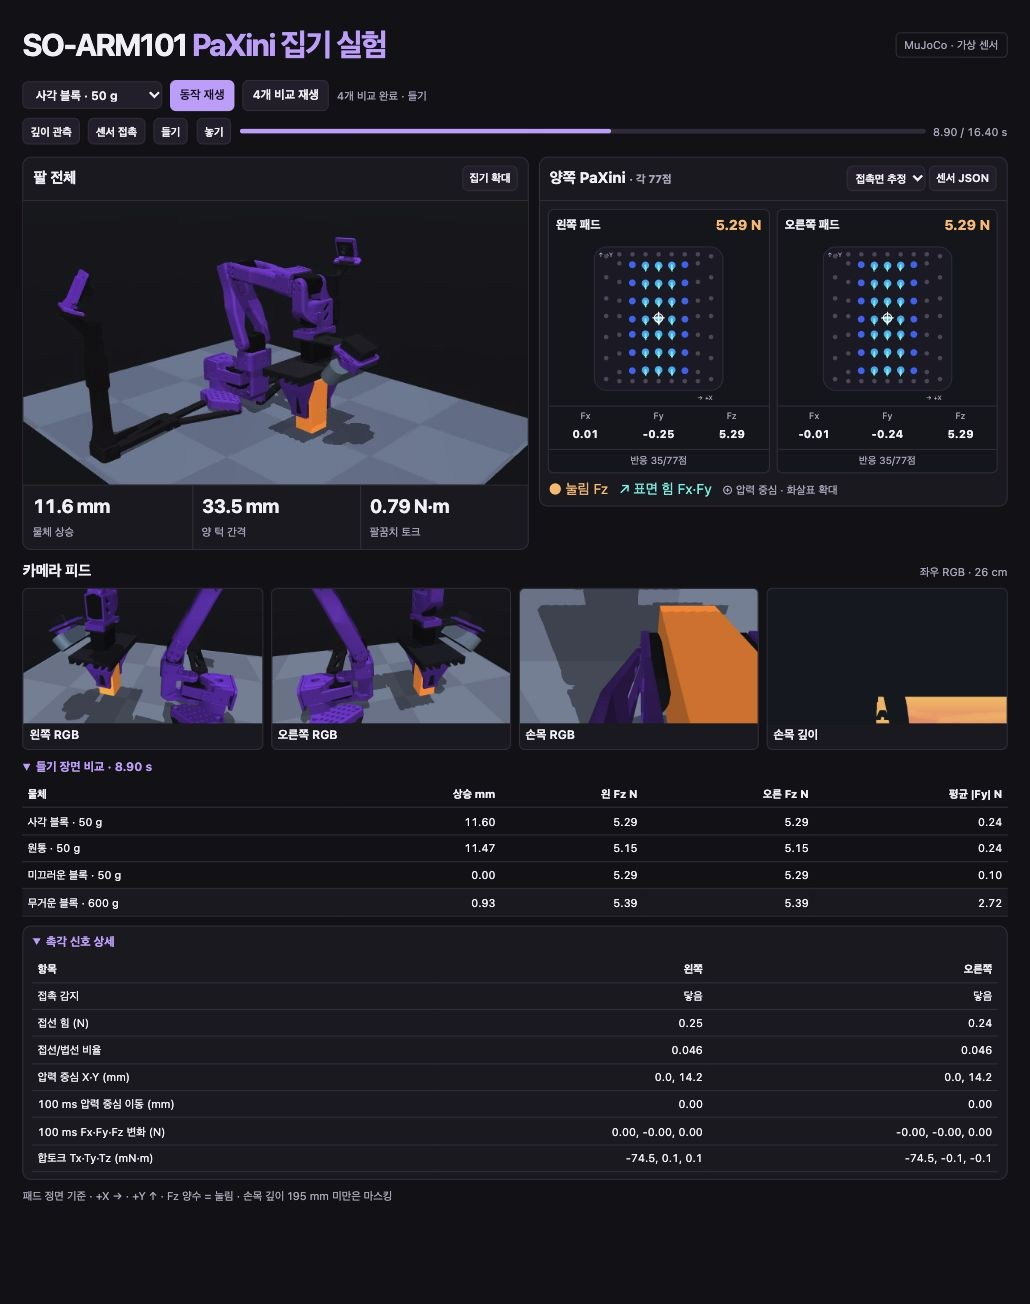
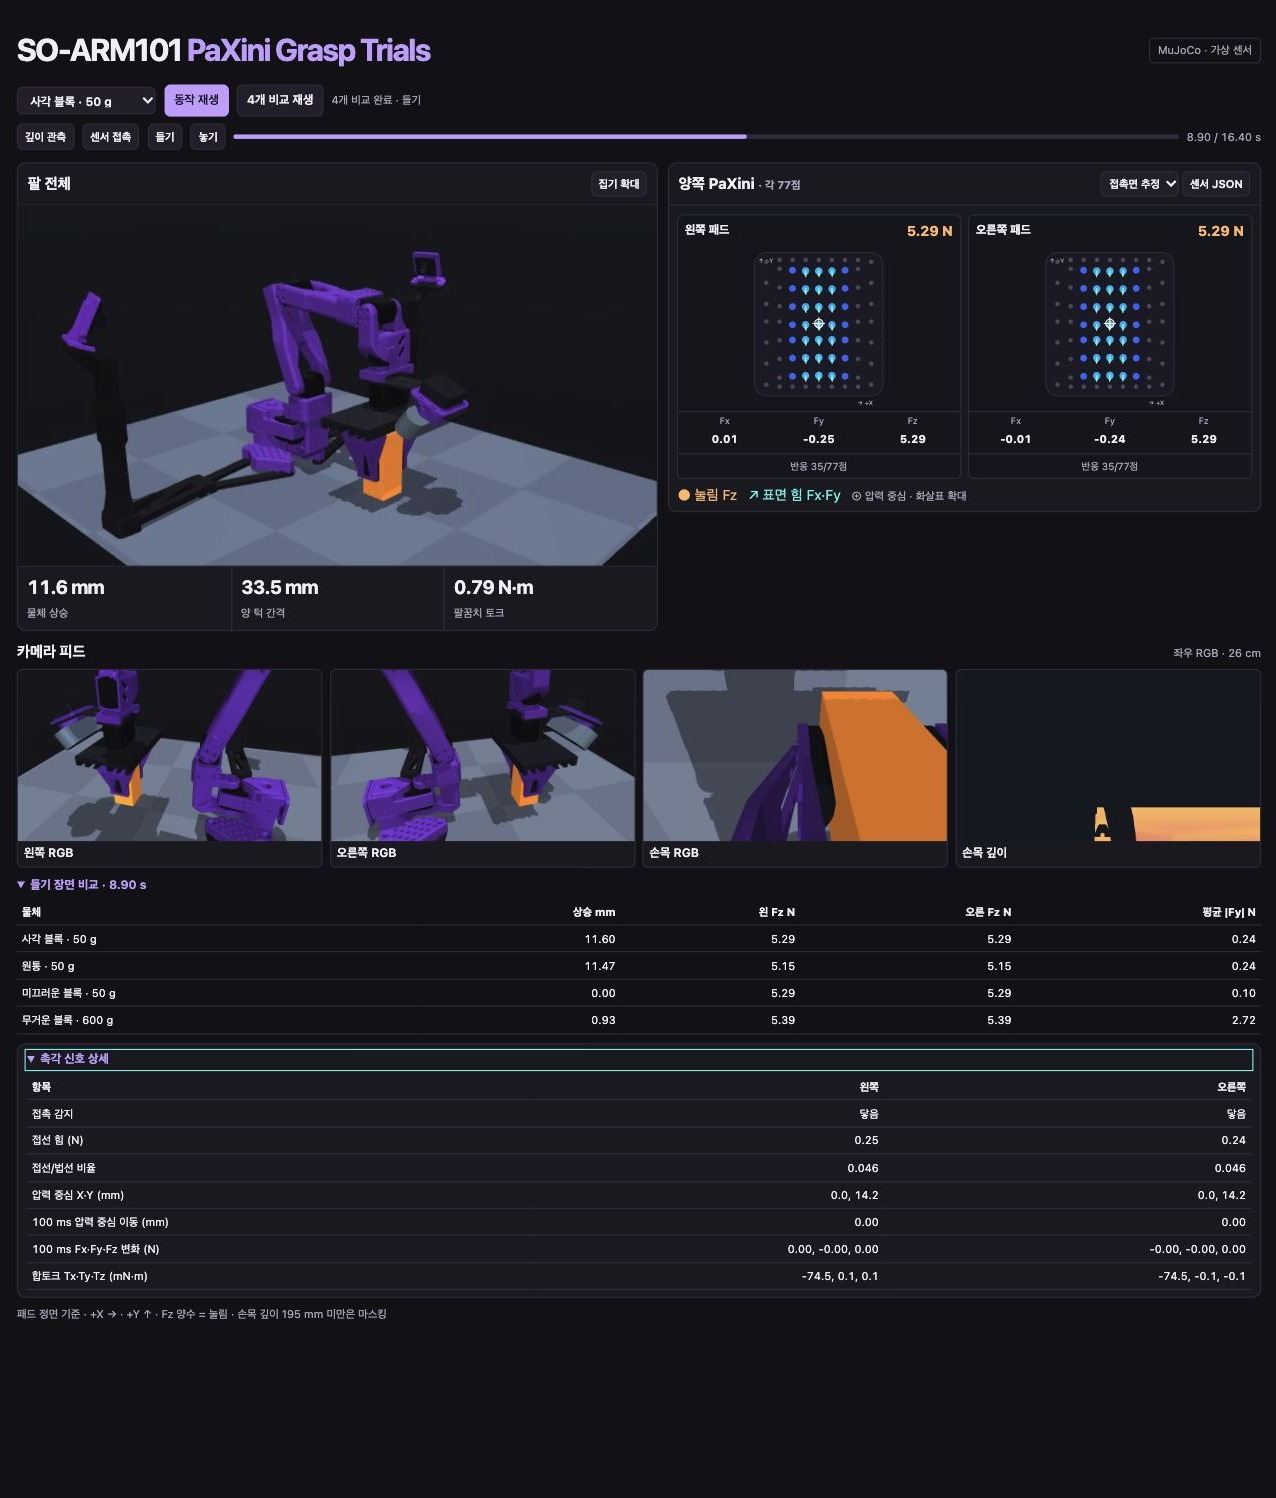
Lead with the live dashboard and enlarge the trial previews

diff --git a/simulation/index.html b/simulation/index.html
@@ -3,7 +3,7 @@
 <head>
 <meta charset="utf-8">
 <meta name="viewport" content="width=device-width,initial-scale=1">
-<title>SO-ARM101 · PaXini 집기 실험</title>
+<title>SO-ARM101 · PaXini Grasp Trials</title>
 <style>
 :root{color-scheme:dark;--ink:#f3f1f8;--muted:#b3aec2;--bg:#101016;--panel:#1b1a24;--edge:#353142;--accent:#c1a9ff;--shear:#76f3e9;--normal:#ffbd71}
 *{box-sizing:border-box}body{margin:0;background:var(--bg);color:var(--ink);font:14px/1.45 system-ui,sans-serif}
@@ -61,7 +61,7 @@ tr[data-case]{cursor:pointer}tr[data-case]:hover{background:var(--panel)}
 </head>
 <body><main>
 <header>
-  <h1>SO-ARM101 <span style="color:var(--accent)">PaXini 집기 실험</span></h1>
+  <h1 lang="en">SO-ARM101 <span style="color:var(--accent)">PaXini Grasp Trials</span></h1>
   <span class="status">MuJoCo · 가상 센서</span>
 </header>
 <div class="toolbar">

diff --git a/README.md b/README.md
@@ -2,29 +2,11 @@
 
 **A PaXini-equipped SO-ARM101 testbed for deciding when to regrasp or skip**
 
-A failed lift can come from poor contact, a slippery surface, or a load the arm cannot raise in its current posture. This pilot builds the gripper, camera rig, and measurement pipeline needed to study those cases under the same motion.
+[![PaXini Grasp Trials dashboard replaying four MuJoCo picks with live tactile maps and camera views](media/mujoco-dashboard-replay.gif)](https://github.com/jhyeong687/tactile-grasp-recovery/releases/download/v0.2.2/so101-dashboard-replay.mp4)
 
-**[Download the reproduction kit](https://github.com/jhyeong687/tactile-grasp-recovery/releases/download/v0.2.1/so101-tactile-recovery-kit.zip)** · [Get started](docs/quickstart.md) · [Pipeline and roadmap](#recovery-pipeline-and-roadmap) · [한국어 연구 기록](docs/research-notes.ko.md)
+[Watch the dashboard replay](https://github.com/jhyeong687/tactile-grasp-recovery/releases/download/v0.2.2/so101-dashboard-replay.mp4) · **[Download the reproduction kit](https://github.com/jhyeong687/tactile-grasp-recovery/releases/download/v0.2.2/so101-tactile-recovery-kit.zip)** · [Pipeline and roadmap](#recovery-pipeline-and-roadmap) · [한국어 연구 기록](docs/research-notes.ko.md)
 
-![Fusion 360 assembly of the SO-ARM101 with PaXini parallel jaws, wrist D435i and two RGB mounts](media/fusion-r7-system.jpg)
-
-## How the rig comes together
-
-[![Fusion 360 assembly of the parallel jaws, tactile pads and 26 cm RGB mounts](media/fusion-assembly-motion.gif)](https://github.com/jhyeong687/tactile-grasp-recovery/releases/download/v0.2.1/so101-fusion-assembly.mp4)
-
-[Fusion assembly MP4](https://github.com/jhyeong687/tactile-grasp-recovery/releases/download/v0.2.1/so101-fusion-assembly.mp4) · [R4 design film](https://github.com/jhyeong687/tactile-grasp-recovery/releases/download/v0.2.1/so101-gripper-r4.mp4)
-
-### Build details
-
-![Close Fusion views of the R4 jaws and the violet SA26MCM camera mount](media/fusion-hardware-details.jpg)
-
-| Design iteration | Work completed | Verification |
-| --- | --- | --- |
-| **R4 tactile jaws** | Fit two M3025 pads to a rod-free rack-and-pinion gripper. Join the two forward screw supports to form a rectangular cable window. | In CAD, the bridge tip is 0.8 mm behind the sensor face. The checked sensor-face gap is 10.4–82.4 mm. |
-| **R5 wrist and cable routing** | Keep the D435i on the wrist, lighten its bridge and compare wrist-side and forearm PaXini box routes. | Bridge volume 14.73 → 8.62 cm³. CAD mass estimates for the two tool configurations were about 307 g and 281 g. Actual masses and motor limits require a bench check. |
-| **R7 fixed RGB mounts** | Add black rails and split masts with violet mounts for the left and right SA26MCM cameras. | Each lens is 260 mm off center, 240 mm above the table and pitched down 27.1°. The longest new print is 143 mm. No robot–mount intersections appeared in 51 sampled CAD poses. |
-
-[26 cm STLs](cad/rgb-26cm/STL) · [Color STEP assembly](cad/rgb-26cm/mount-assembly.step) · [Wrist and fit-check parts](cad/wrist-and-fit) · [Assembly order and fasteners](cad/README.md) · [CAD checks](data/cad-clearance.json)
+A weak lift can follow from poor contact, a slippery surface, or a load the arm cannot raise in its current posture. This pilot builds a gripper and sensor rig to compare those cases under the same motion.
 
 ## Four grasps on one time axis
 
@@ -34,30 +16,30 @@ At **5.29 N per jaw**, the standard block lifted **11.60 mm** and the slippery b
   <tr>
     <td width="50%" align="center">
       <strong>Standard block</strong><br>
-      <a href="https://github.com/jhyeong687/tactile-grasp-recovery/releases/download/v0.2.1/grasp-normal.mp4"><img src="./media/grasp-normal.gif" alt="Standard block lift and left and right PaXini force maps"></a><br>
+      <a href="https://github.com/jhyeong687/tactile-grasp-recovery/releases/download/v0.2.2/grasp-normal.mp4"><img src="./media/grasp-normal.gif" alt="Standard block lift and left and right PaXini force maps"></a><br>
       <sub>50 g · friction 0.80 · rise 11.60 mm at 8.90 s</sub>
     </td>
     <td width="50%" align="center">
       <strong>Cylinder</strong><br>
-      <a href="https://github.com/jhyeong687/tactile-grasp-recovery/releases/download/v0.2.1/grasp-round.mp4"><img src="./media/grasp-round.gif" alt="Cylinder lift and left and right PaXini force maps"></a><br>
+      <a href="https://github.com/jhyeong687/tactile-grasp-recovery/releases/download/v0.2.2/grasp-round.mp4"><img src="./media/grasp-round.gif" alt="Cylinder lift and left and right PaXini force maps"></a><br>
       <sub>50 g · friction 0.80 · rise 11.47 mm at 8.90 s</sub>
     </td>
   </tr>
   <tr>
     <td width="50%" align="center">
       <strong>Slippery block</strong><br>
-      <a href="https://github.com/jhyeong687/tactile-grasp-recovery/releases/download/v0.2.1/grasp-slippery.mp4"><img src="./media/grasp-slippery.gif" alt="Slippery block lift attempt and left and right PaXini force maps"></a><br>
+      <a href="https://github.com/jhyeong687/tactile-grasp-recovery/releases/download/v0.2.2/grasp-slippery.mp4"><img src="./media/grasp-slippery.gif" alt="Slippery block lift attempt and left and right PaXini force maps"></a><br>
       <sub>50 g · friction 0.018 · rise 0.00 mm at 8.90 s</sub>
     </td>
     <td width="50%" align="center">
       <strong>Heavy block</strong><br>
-      <a href="https://github.com/jhyeong687/tactile-grasp-recovery/releases/download/v0.2.1/grasp-heavy_matched.mp4"><img src="./media/grasp-heavy_matched.gif" alt="Heavy block lift attempt and left and right PaXini force maps"></a><br>
+      <a href="https://github.com/jhyeong687/tactile-grasp-recovery/releases/download/v0.2.2/grasp-heavy_matched.mp4"><img src="./media/grasp-heavy_matched.gif" alt="Heavy block lift attempt and left and right PaXini force maps"></a><br>
       <sub>600 g · friction 0.80 · rise 0.93 mm at 8.90 s</sub>
     </td>
   </tr>
 </table>
 
-Each clip uses the same simulation timestamps. The dot colors show compression and arrows show in-plane force on the estimated contact patch. Use the [synchronized MP4](https://github.com/jhyeong687/tactile-grasp-recovery/releases/download/v0.2.1/so101-four-grasps.mp4) for frame-locked playback. The lift command runs from 7.50 to 8.90 s.
+Each clip uses the same simulation timestamps. The dot colors show compression and arrows show in-plane force on the estimated contact patch. Use the [synchronized MP4](https://github.com/jhyeong687/tactile-grasp-recovery/releases/download/v0.2.2/so101-four-grasps.mp4) for frame-locked playback. The lift command runs from 7.50 to 8.90 s.
 
 | Condition | Mass | Pad friction | Object rise | Mean Fz per jaw | Mean abs. Fy per jaw |
 | --- | ---: | ---: | ---: | ---: | ---: |
@@ -72,16 +54,29 @@ The heavy block applies more tangential force at the same nominal friction as th
 
 [8.90 s comparison image](media/grasp-comparison.jpg) · [1,644 time samples in CSV](data/trial-traces.csv) · [40 tactile snapshots in JSON](data/tactile-pilot.json) · [Data schema](data/README.md)
 
+## How the rig comes together
+
+[![Fusion 360 assembly of the parallel jaws, tactile pads and 26 cm RGB mounts](media/fusion-assembly-motion.gif)](https://github.com/jhyeong687/tactile-grasp-recovery/releases/download/v0.2.2/so101-fusion-assembly.mp4)
+
+[Fusion assembly MP4](https://github.com/jhyeong687/tactile-grasp-recovery/releases/download/v0.2.2/so101-fusion-assembly.mp4) · [R4 design film](https://github.com/jhyeong687/tactile-grasp-recovery/releases/download/v0.2.2/so101-gripper-r4.mp4)
+
+### Build details
+
+![Fusion 360 assembly of the SO-ARM101 with PaXini parallel jaws, wrist D435i and two RGB mounts](media/fusion-r7-system.jpg)
+
+![Close Fusion views of the R4 jaws and the violet SA26MCM camera mount](media/fusion-hardware-details.jpg)
+
+| Design iteration | Work completed | Verification |
+| --- | --- | --- |
+| **R4 tactile jaws** | Fit two M3025 pads to a rod-free rack-and-pinion gripper. Join the two forward screw supports to form a rectangular cable window. | In CAD, the bridge tip is 0.8 mm behind the sensor face. The checked sensor-face gap is 10.4–82.4 mm. |
+| **R5 wrist and cable routing** | Keep the D435i on the wrist, lighten its bridge and compare wrist-side and forearm PaXini box routes. | Bridge volume 14.73 → 8.62 cm³. CAD mass estimates for the two tool configurations were about 307 g and 281 g. Actual masses and motor limits require a bench check. |
+| **R7 fixed RGB mounts** | Add black rails and split masts with violet mounts for the left and right SA26MCM cameras. | Each lens is 260 mm off center, 240 mm above the table and pitched down 27.1°. The longest new print is 143 mm. No robot–mount intersections appeared in 51 sampled CAD poses. |
+
+[26 cm STLs](cad/rgb-26cm/STL) · [Color STEP assembly](cad/rgb-26cm/mount-assembly.step) · [Wrist and fit-check parts](cad/wrist-and-fit) · [Assembly order and fasteners](cad/README.md) · [CAD checks](data/cad-clearance.json)
+
 ## What the simulator shows
 
-<details open>
-<summary><strong>Live dashboard · robot, dual tactile maps, four cameras, and comparison table</strong></summary>
-
-![Korean MuJoCo dashboard at the 8.90 s lift checkpoint](media/mujoco-dashboard.jpg)
-
-The live replay averages force over each playback step. The numerical table above uses the same deterministic checkpoint procedure as the downloadable data.
-
-</details>
+The dashboard records arm motion, dual tactile maps and four camera feeds in a single view. The animated preview above is condensed. [Full-size dashboard still](media/mujoco-dashboard.jpg)
 
 | Signal | How to read it |
 | --- | --- |
@@ -94,7 +89,7 @@ The live replay averages force over each playback step. The numerical table abov
 
 ## Download and run
 
-Download and extract the [reproduction kit](https://github.com/jhyeong687/tactile-grasp-recovery/releases/download/v0.2.1/so101-tactile-recovery-kit.zip), or clone this repository. Run these commands from the repository root in a Python environment.
+Download and extract the [reproduction kit](https://github.com/jhyeong687/tactile-grasp-recovery/releases/download/v0.2.2/so101-tactile-recovery-kit.zip), or clone this repository. Run these commands from the repository root in a Python environment.
 
     python -m pip install -r simulation/requirements.txt
     python simulation/sim.py --verify --physics-only

diff --git a/docs/research-notes.ko.md b/docs/research-notes.ko.md
@@ -2,7 +2,7 @@
 
 2026년 11월 22–23일에 진행한 CAD 개선과 MuJoCo 파일럿이다. 이전 [VTLA 프로젝트](https://github.com/jhyeong687/VTLA)에서 쓰던 PaXini 센서 두 개를 SO-ARM101에 다시 붙여, 파지 직후의 판단을 실험할 수 있게 만들었다.
 
-[재현 키트 받기](https://github.com/jhyeong687/tactile-grasp-recovery/releases/download/v0.2.1/so101-tactile-recovery-kit.zip) · [실행 가이드](quickstart.md) · [Fusion 조립 영상](https://github.com/jhyeong687/tactile-grasp-recovery/releases/download/v0.2.1/so101-fusion-assembly.mp4)
+[재현 키트 받기](https://github.com/jhyeong687/tactile-grasp-recovery/releases/download/v0.2.2/so101-tactile-recovery-kit.zip) · [실행 가이드](quickstart.md) · [Fusion 조립 영상](https://github.com/jhyeong687/tactile-grasp-recovery/releases/download/v0.2.2/so101-fusion-assembly.mp4)
 
 ![실제 Fusion 360 전체 조립체](../media/fusion-r7-system.jpg)
 
@@ -23,7 +23,7 @@
 
 같은 동작으로 물체를 들어 올린 8.90초에 일반 50 g 블록은 11.60 mm, 50 g 원통은 11.47 mm, 미끄러운 50 g 블록은 0.00 mm, 600 g 블록은 0.93 mm 상승했다. 일반 블록과 미끄러운 블록은 평균 눌림이 둘 다 5.29 N이었다. 무거운 조건은 일반 블록과 같은 표면 마찰을 적용했고 평균 접선 Fy의 크기가 더 컸다. 한 자세의 수치만으로 실제 무게나 미끄러짐을 분류할 수 있는지는 검증 전이다.
 
-MuJoCo가 길쭉한 접촉면을 소수의 접촉점으로 표현해 초기 표시에서는 양끝 위주로 각 8점이 보였다. 물체 형상과 패드의 근접도를 이용해 힘을 다시 배분한 지도는 각 35점이 반응했고 합력은 같았다. 화면에서 두 지도를 번갈아 볼 수 있다. 형상을 사용하는 접촉면 추정치는 연구용 에이전트 입력에서 제외했다. [네 조건 병렬 영상](https://github.com/jhyeong687/tactile-grasp-recovery/releases/download/v0.2.1/so101-four-grasps.mp4) · [시계열 데이터](../data/README.md)
+MuJoCo가 길쭉한 접촉면을 소수의 접촉점으로 표현해 초기 표시에서는 양끝 위주로 각 8점이 보였다. 물체 형상과 패드의 근접도를 이용해 힘을 다시 배분한 지도는 각 35점이 반응했고 합력은 같았다. 화면에서 두 지도를 번갈아 볼 수 있다. 형상을 사용하는 접촉면 추정치는 연구용 에이전트 입력에서 제외했다. [네 조건 병렬 영상](https://github.com/jhyeong687/tactile-grasp-recovery/releases/download/v0.2.2/so101-four-grasps.mp4) · [시계열 데이터](../data/README.md)
 
 ## 파이프라인과 추후 실험
 

diff --git a/docs/quickstart.md b/docs/quickstart.md
@@ -4,7 +4,7 @@ The standalone kit contains the Python simulator and all required model meshes, 
 
 ## 1. Open the dashboard
 
-Download the [reproduction kit](https://github.com/jhyeong687/tactile-grasp-recovery/releases/download/v0.2.1/so101-tactile-recovery-kit.zip) and extract it. You can also use Git.
+Download the [reproduction kit](https://github.com/jhyeong687/tactile-grasp-recovery/releases/download/v0.2.2/so101-tactile-recovery-kit.zip) and extract it. You can also use Git.
 
     git clone https://github.com/jhyeong687/tactile-grasp-recovery.git
     cd tactile-grasp-recovery
@@ -45,4 +45,4 @@ The response includes signed force vectors, sum force and torque on each side, a
 
 Import [mount-assembly.step](../cad/rgb-26cm/mount-assembly.step) into Fusion 360 to inspect the colored 26 cm mount. Open the [STL directory](../cad/rgb-26cm/STL) in a slicer with millimetre units. This release includes the two rails, four mast sections, camera interface parts, the [wrist D435i bridge](../cad/wrist-and-fit/D435i_Wrist_Bridge_R5.stl), and the [M3025 clearance coupon](../cad/wrist-and-fit/M3025_Screw_Fit_Test.stl). See [assembly and fasteners](../cad/README.md) and [the Korean guide](../cad/rgb-26cm/assembly.ko.md). The original rack-and-pinion hardware and applicable terms are linked in the [source credits](sources.md).
 
-Download the [Fusion animation](https://github.com/jhyeong687/tactile-grasp-recovery/releases/download/v0.2.1/so101-fusion-assembly.mp4) for an overview of part placement. Check physical fit, wiring and limiting motor loads before running the arm.
+Download the [Fusion animation](https://github.com/jhyeong687/tactile-grasp-recovery/releases/download/v0.2.2/so101-fusion-assembly.mp4) for an overview of part placement. Check physical fit, wiring and limiting motor loads before running the arm.
